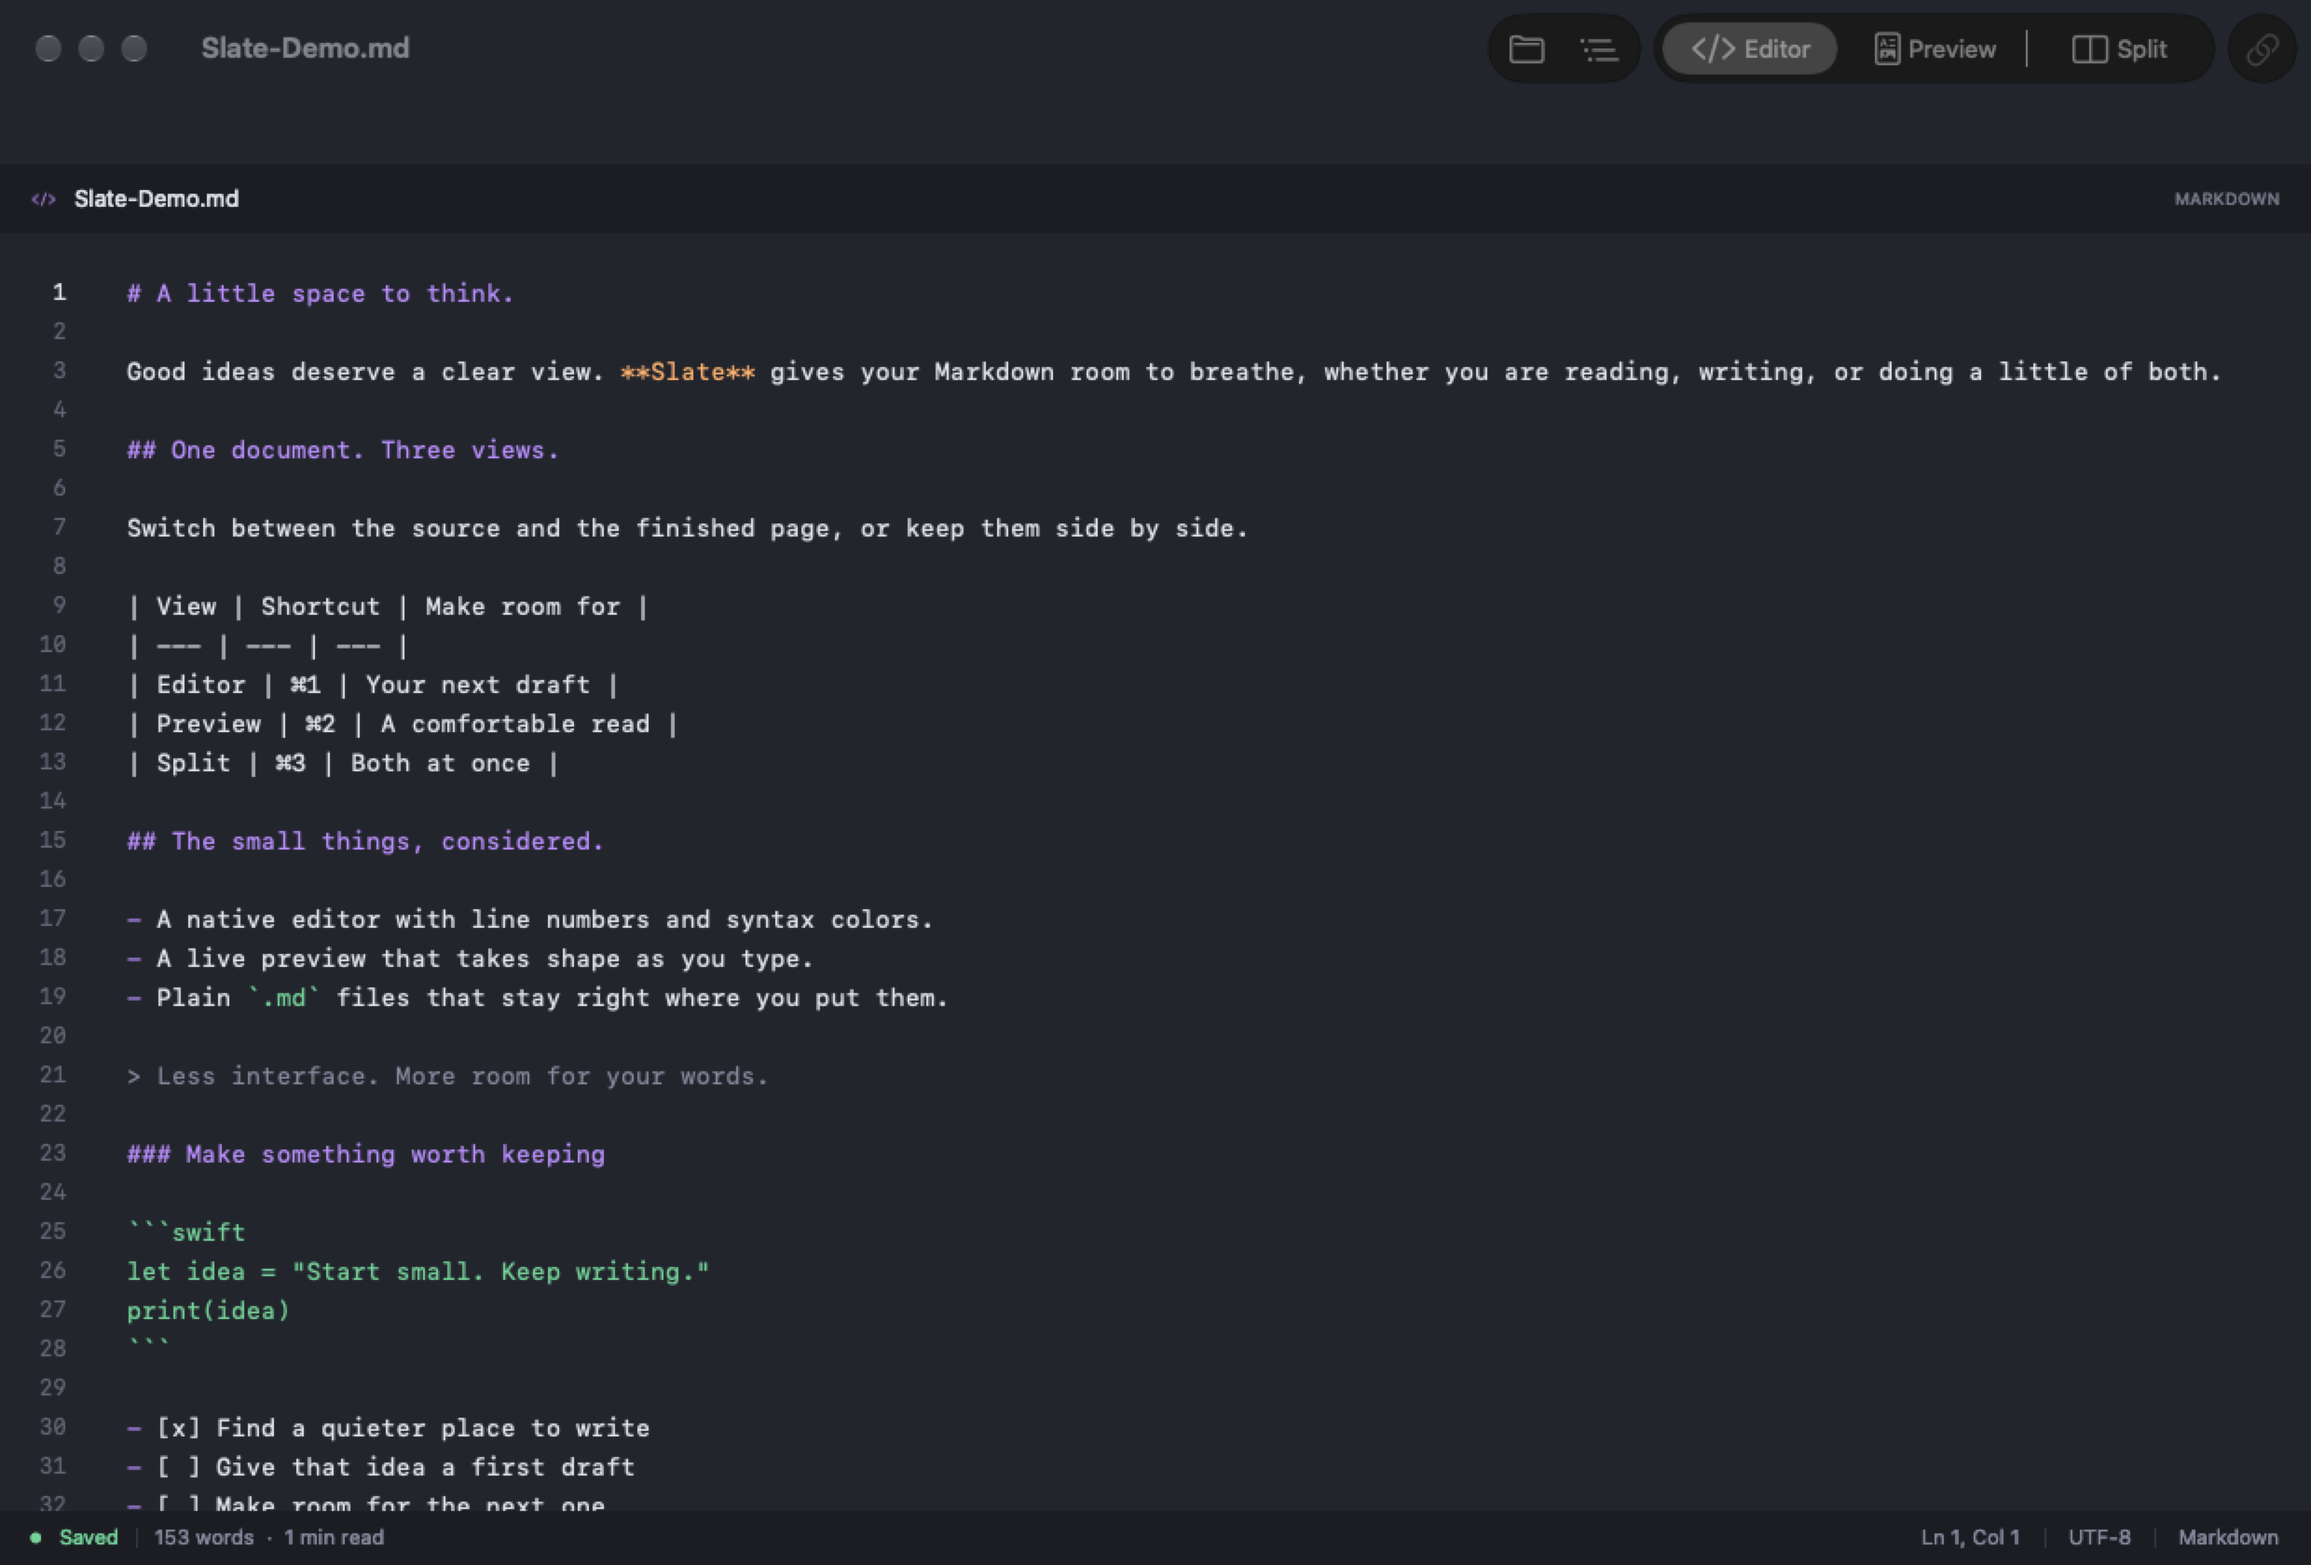
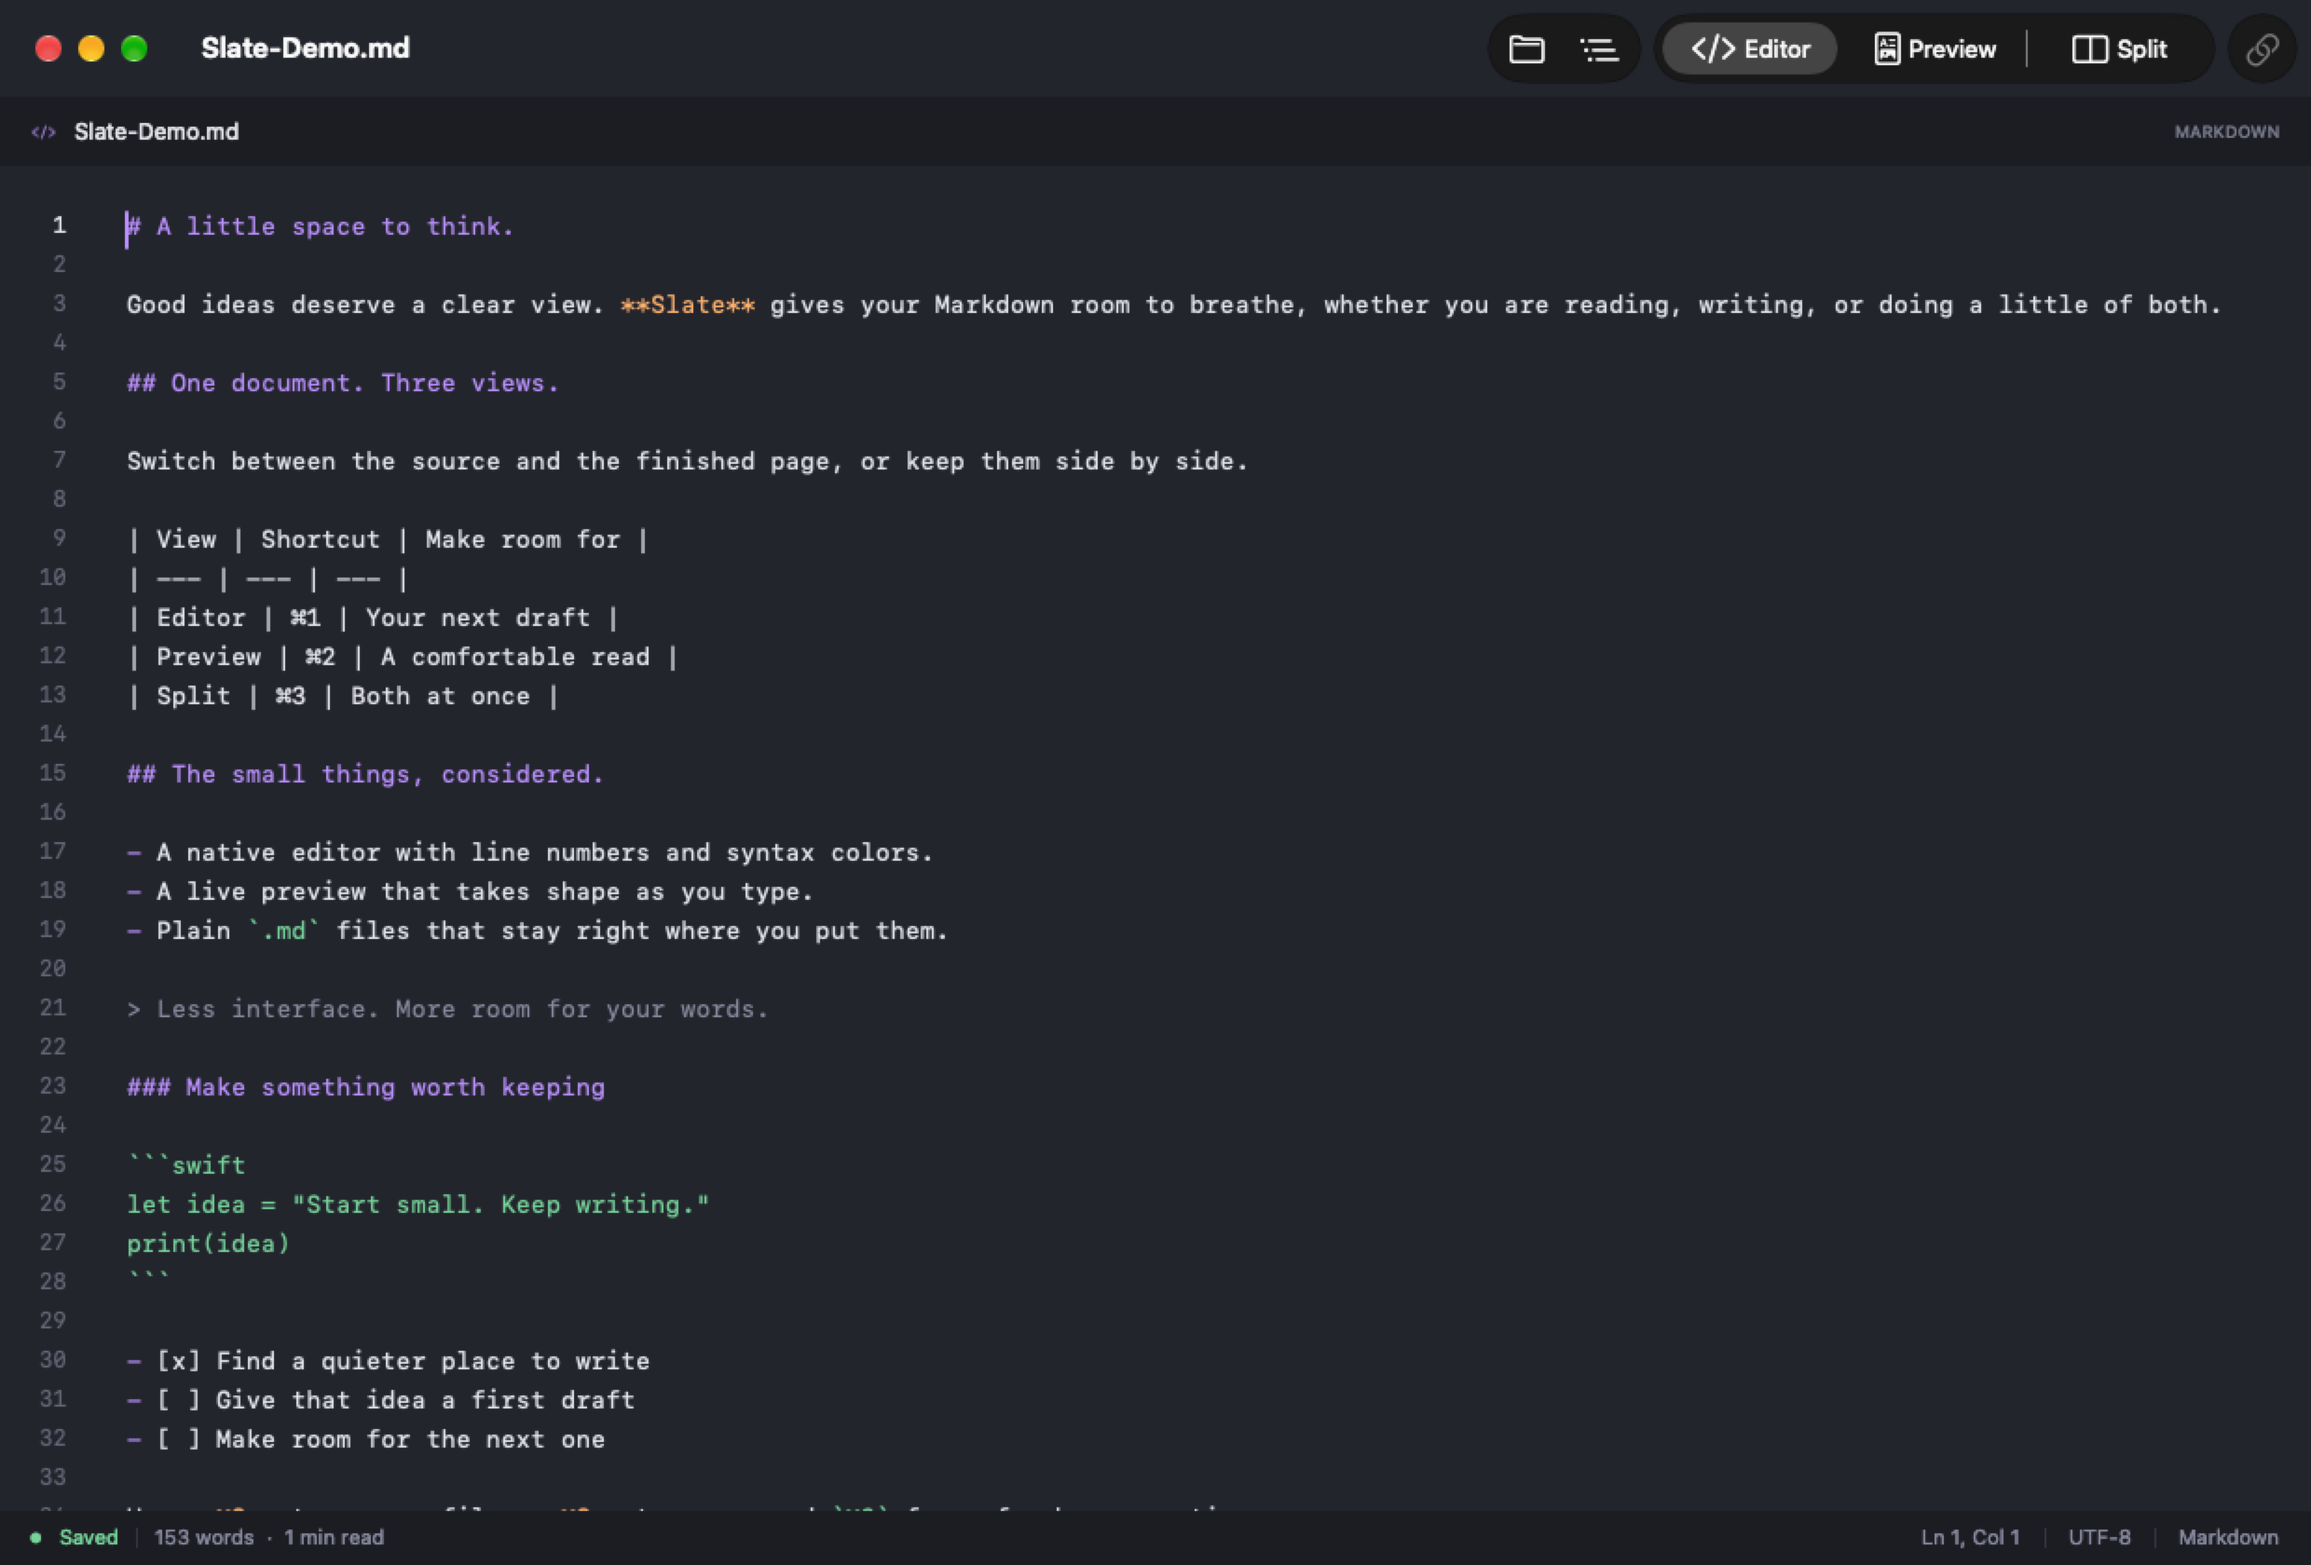
Fix split-view screenshot and screenshot capture
- Keep the editor text view at the scroll view origin so the editor
  cannot appear blank after a layout change.
- Capture: disable synchronized scrolling, reset both panes to the top
  (honoring the ruler's -48pt clip origin), and pass paths via env vars
  so AppKit no longer tries to open the output folder.
- Regenerate all three screenshots.
- README: add Close window shortcut, uninstall note, next-version tag
  example. Add Unreleased changelog entry.

diff --git a/Scripts/CaptureScreenshots.swift b/Scripts/CaptureScreenshots.swift
@@ -6,14 +6,16 @@ import WebKit
 @main
 enum CaptureMain {
     static func main() {
-        guard CommandLine.arguments.count == 3 else {
-            fputs("Usage: SlateCapture OUTPUT_DIRECTORY DEMO_MARKDOWN\n", stderr)
+        // Paths come from the environment, not argv: AppKit treats path
+        // arguments as documents to open and shows "cannot open folder" errors.
+        let environment = ProcessInfo.processInfo.environment
+        guard let output = environment["SLATE_CAPTURE_OUTPUT"], let demo = environment["SLATE_CAPTURE_DEMO"] else {
+            fputs("Usage: SLATE_CAPTURE_OUTPUT=DIR SLATE_CAPTURE_DEMO=FILE SlateCapture\n", stderr)
             exit(1)
         }
         let app = NSApplication.shared
         app.setActivationPolicy(.regular)
-        let delegate = CaptureDelegate(output: URL(fileURLWithPath: CommandLine.arguments[1]),
-                                       demo: URL(fileURLWithPath: CommandLine.arguments[2]))
+        let delegate = CaptureDelegate(output: URL(fileURLWithPath: output), demo: URL(fileURLWithPath: demo))
         app.delegate = delegate
         app.run()
         withExtendedLifetime(delegate) {}
@@ -35,6 +37,10 @@ final class CaptureDelegate: NSObject, NSApplicationDelegate {
     func applicationDidFinishLaunching(_ notification: Notification) {
         do {
             NSApp.appearance = NSAppearance(named: .darkAqua)
+            // Both panes must start at the top. Synchronized scrolling races
+            // with the programmatic reset and leaves one pane scrolled away.
+            // This capture app has its own bundle ID, so real prefs are untouched.
+            UserDefaults.standard.set(false, forKey: "syncedScrolling")
             try FileManager.default.createDirectory(at: output, withIntermediateDirectories: true)
             let document = MarkdownDocument()
             try document.read(from: Data(contentsOf: demo), ofType: "net.daringfireball.markdown")
@@ -69,11 +75,26 @@ final class CaptureDelegate: NSObject, NSApplicationDelegate {
         case 1: controller.showEditor(nil)
         default: controller.showPreview(nil)
         }
+        resetScroll()
+        // Layout and synchronized scrolling settle asynchronously after a mode
+        // change, so reset again just before the snapshot to guarantee both
+        // panes start at the top of the document.
+        DispatchQueue.main.asyncAfter(deadline: .now() + 0.8) {
+            self.resetScroll()
+            DispatchQueue.main.asyncAfter(deadline: .now() + 0.5) { self.capture() }
+        }
+    }
+
+    private func resetScroll() {
+        guard let controller else { return }
         controller.editor.setSelectedRange(NSRange(location: 0, length: 0))
-        controller.editorScroll.contentView.scroll(to: .zero)
+        // Scroll to the topmost position AppKit allows rather than literal (0, 0);
+        // with the line-number ruler the natural origin is not always zero.
+        let clip = controller.editorScroll.contentView
+        let top = clip.constrainBoundsRect(NSRect(origin: NSPoint(x: -10_000, y: -10_000), size: clip.bounds.size)).origin
+        clip.scroll(to: NSPoint(x: top.x, y: top.y))
         controller.editorScroll.reflectScrolledClipView(controller.editorScroll.contentView)
         controller.preview.scroll(to: 0)
-        DispatchQueue.main.asyncAfter(deadline: .now() + 0.8) { self.capture() }
     }
 
     private func capture() {

diff --git a/Sources/DocumentWindowController.swift b/Sources/DocumentWindowController.swift
@@ -328,6 +328,9 @@ final class DocumentWindowController: NSWindowController, NSToolbarDelegate, NST
         modeControl?.selectedSegment = mode.rawValue
         splitView.adjustSubviews()
         window?.contentView?.layoutSubtreeIfNeeded()
+        // The text view can end up displaced inside its clip view after the
+        // pane is resized, leaving the visible editor blank. Keep it at the origin.
+        if editor.frame.origin != .zero { editor.setFrameOrigin(.zero) }
         if mode == .split { splitView.setPosition(splitView.bounds.width * splitRatio, ofDividerAt: 0) }
         splitView.needsDisplay = true
         if mode != .editor { preview.update(markdown: editor.string) }

diff --git a/README.md b/README.md
@@ -62,6 +62,8 @@ This installs to `~/Applications/Slate.app`. To install to `/Applications` inste
 SLATE_INSTALL_DIR=/Applications make install
 ```
 
+To uninstall, quit Slate and delete `Slate.app` from the folder you installed it to (`~/Applications` by default). Slate stores only its preferences, in `~/Library/Preferences/com.hemish.slate.plist`.
+
 No dependency downloads are needed to build the app. Node.js is only needed for the renderer tests.
 
 ### Prebuilt downloads
@@ -107,6 +109,7 @@ To make Slate the default, select a `.md` file, press **⌘I**, select Slate und
 | Inline code / Link | ⌘E / ⌘K |
 | Undo / Redo | ⌘Z / ⇧⌘Z |
 | Zoom in / out / reset | ⌘+ / ⌘− / ⌘0 |
+| Close window | ⌘W |
 | Fullscreen | ⌃⌘F |
 
 Use the toolbar's outline button to jump to headings. Drag the split divider to change the pane widths, or use the link button to toggle synchronized scrolling. **Help → Welcome to Slate** opens an editable guide.
@@ -147,11 +150,11 @@ docs/             Launch images, release notes, and social post copy
 
 The CI workflow builds the app and runs the tests on macOS for pushes and pull requests. Tags matching `v*` run the release workflow, which tests the code, builds a universal app, and uploads `Slate.zip` and its SHA-256 checksum to a GitHub release.
 
-From a normal authenticated checkout, a maintainer can publish a version with:
+From a normal authenticated checkout, a maintainer can publish a version (here `1.0.3`, after updating `Resources/Info.plist` and `CHANGELOG.md`) with:
 
 ```sh
-git tag v1.0.2
-git push origin v1.0.2
+git tag v1.0.3
+git push origin v1.0.3
 ```
 
 The tag should match the version in `Resources/Info.plist`. Tagged archives are ad hoc signed; automated releases do not perform Developer ID signing or notarization.

diff --git a/CHANGELOG.md b/CHANGELOG.md
@@ -1,5 +1,10 @@
 # Changelog
 
+## Unreleased
+
+- Keep the editor text view at the origin of its scroll view so the editor can no longer appear blank after a layout change.
+- Fix `make screenshots`: pass paths through the environment so AppKit no longer tries to open the output folder, and reset both panes to the top of the document before capture.
+
 ## 1.0.2
 
 - Clear the old divider when switching from Split to Editor or Preview.
